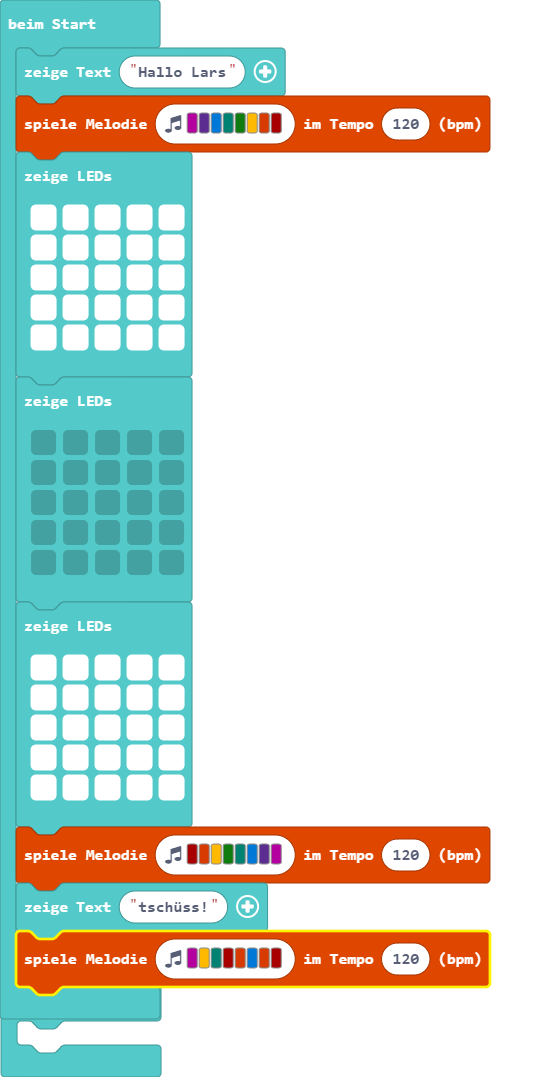
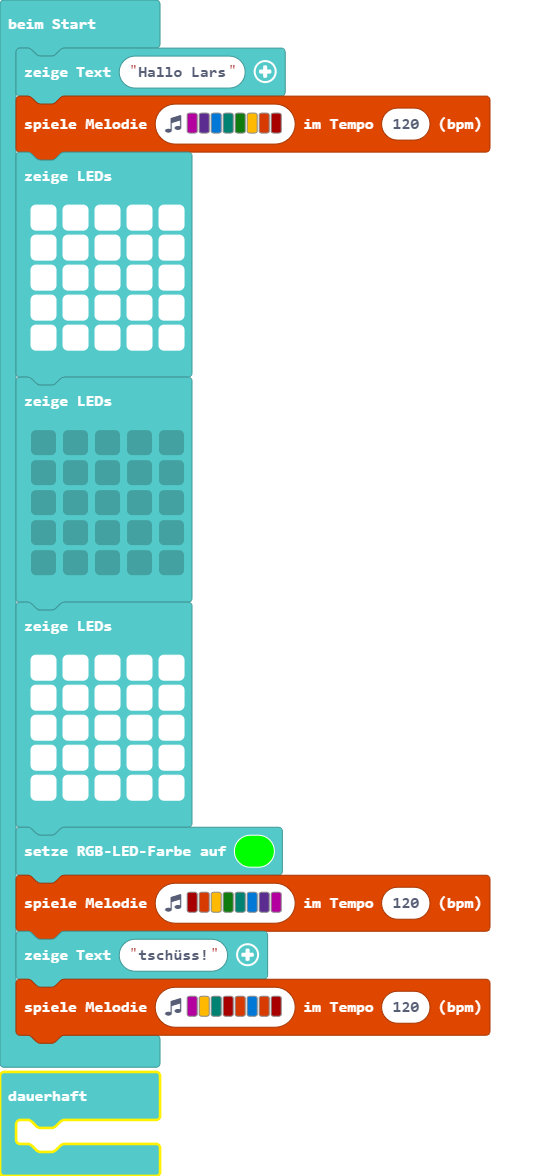
Aktualisiere main.blocks, main.ts

Changed region(s): [[0.0, 0.0, 0.9151, 1.0]]

diff --git a/main.ts b/main.ts
@@ -21,6 +21,7 @@ basic.showLeds(`
     # # # # #
     # # # # #
     `)
+basic.setLedColor(0x00ff00)
 music.playMelody("C5 B A G F E D C ", 120)
 basic.showString("tschüss!")
 music.playMelody("C A F C5 B E B C5 ", 120)
